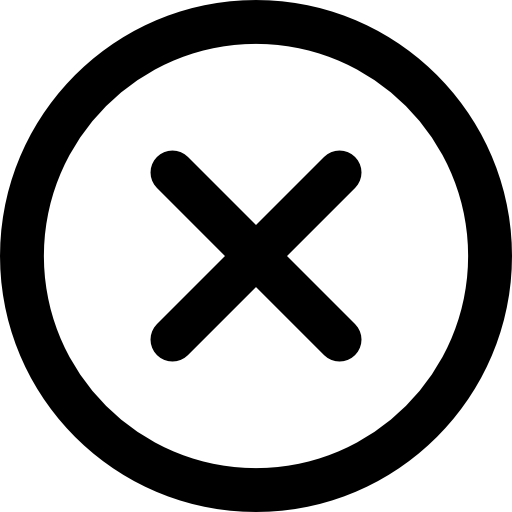
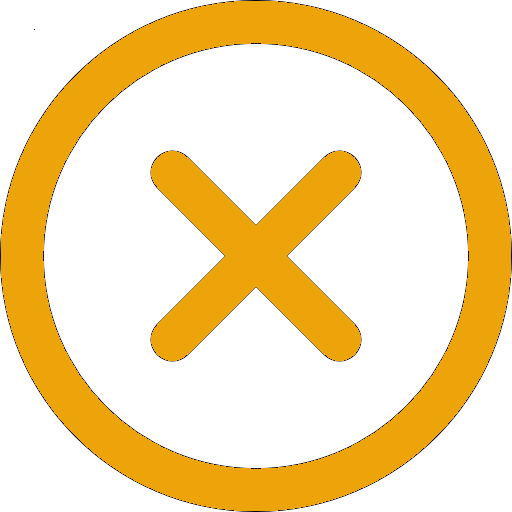
Alterado a cor das imagens

diff --git a/css/style-form.css b/css/style-form.css
@@ -18,7 +18,7 @@
     flex-direction: column;
     align-items: flex-start;
     justify-content: flex-start;
-    
+
 }
 
 #div-form-direito {
@@ -38,22 +38,29 @@ select {
     padding: 0px 5px;
     margin: 25px 0px;
     border: none;
-    border-bottom: 2px solid var(--preta);
+    border-bottom: 2px solid var(--cor1);
+}
+
+.item-produto input, imtextarea {
+    border: 2px solid var(--cor1);
+    border-radius: 10px;
 }
 
 input::placeholder,
-select, option,
-#div-radios,.label-span {
-    color: var(--preta);
+select,
+option,
+#div-radios,
+.label-span {
+    color: var(--cor1);
     font-size: 1.3em;
- 
+
 }
 
-.label-span{
+.label-span {
     text-transform: uppercase;
 }
 
-.label-span{
+.label-span {
     display: block;
     margin: 20px 0px;
     font-size: 1.3em;
@@ -66,7 +73,7 @@ input[type=radio] {
     cursor: pointer;
 }
 
-textarea{
+textarea {
     width: 100%;
     height: 300px;
     resize: none;
@@ -75,7 +82,7 @@ textarea{
     border-radius: 8px;
 }
 
-#div-btns{
+#div-btns {
     width: 100%;
     height: 60px;
     display: flex;
@@ -84,7 +91,7 @@ textarea{
     margin: 50px 0px;
 }
 
-#div-btns button{
+#div-btns button {
     width: 280px;
     height: 45px;
     font-size: 1.3em;
@@ -94,11 +101,11 @@ textarea{
     text-transform: uppercase;
     color: var(--branca);
 }
-#btn-cadastrar{
+
+#btn-cadastrar {
     background-color: var(--cor2);
 }
 
-#btn-limpar{
+#btn-limpar {
     background-color: var(--cor3);
 }
-

diff --git a/css/style-lista.css b/css/style-lista.css
@@ -3,6 +3,7 @@
     padding: 20px;
     margin: 5px;
     border-radius: 8px;
+    
 }
 
 #div-lista h3 {
@@ -11,6 +12,7 @@
 
 #div-lista-cabecalho {
     background-color: var(--cor1);
+    color: var(--branca);
 }
 
 #div-lista-itens {
@@ -26,7 +28,11 @@
     display: flex;
     align-items: center;
     justify-content: space-between;
-    color: var(--branca);
+    
+}
+
+.item-produto {
+    color: var(--cor1);
 }
 
 #div-lista h3{

diff --git a/index.html b/index.html
@@ -8,7 +8,7 @@
 
     <link rel="stylesheet" href="css/style.css">
 
-    <script src="js/script.js" type="module" defer ></script>
+    <!--<script src="js/script.js" type="module" defer ></script>-->
 </head>
 
 <body>
